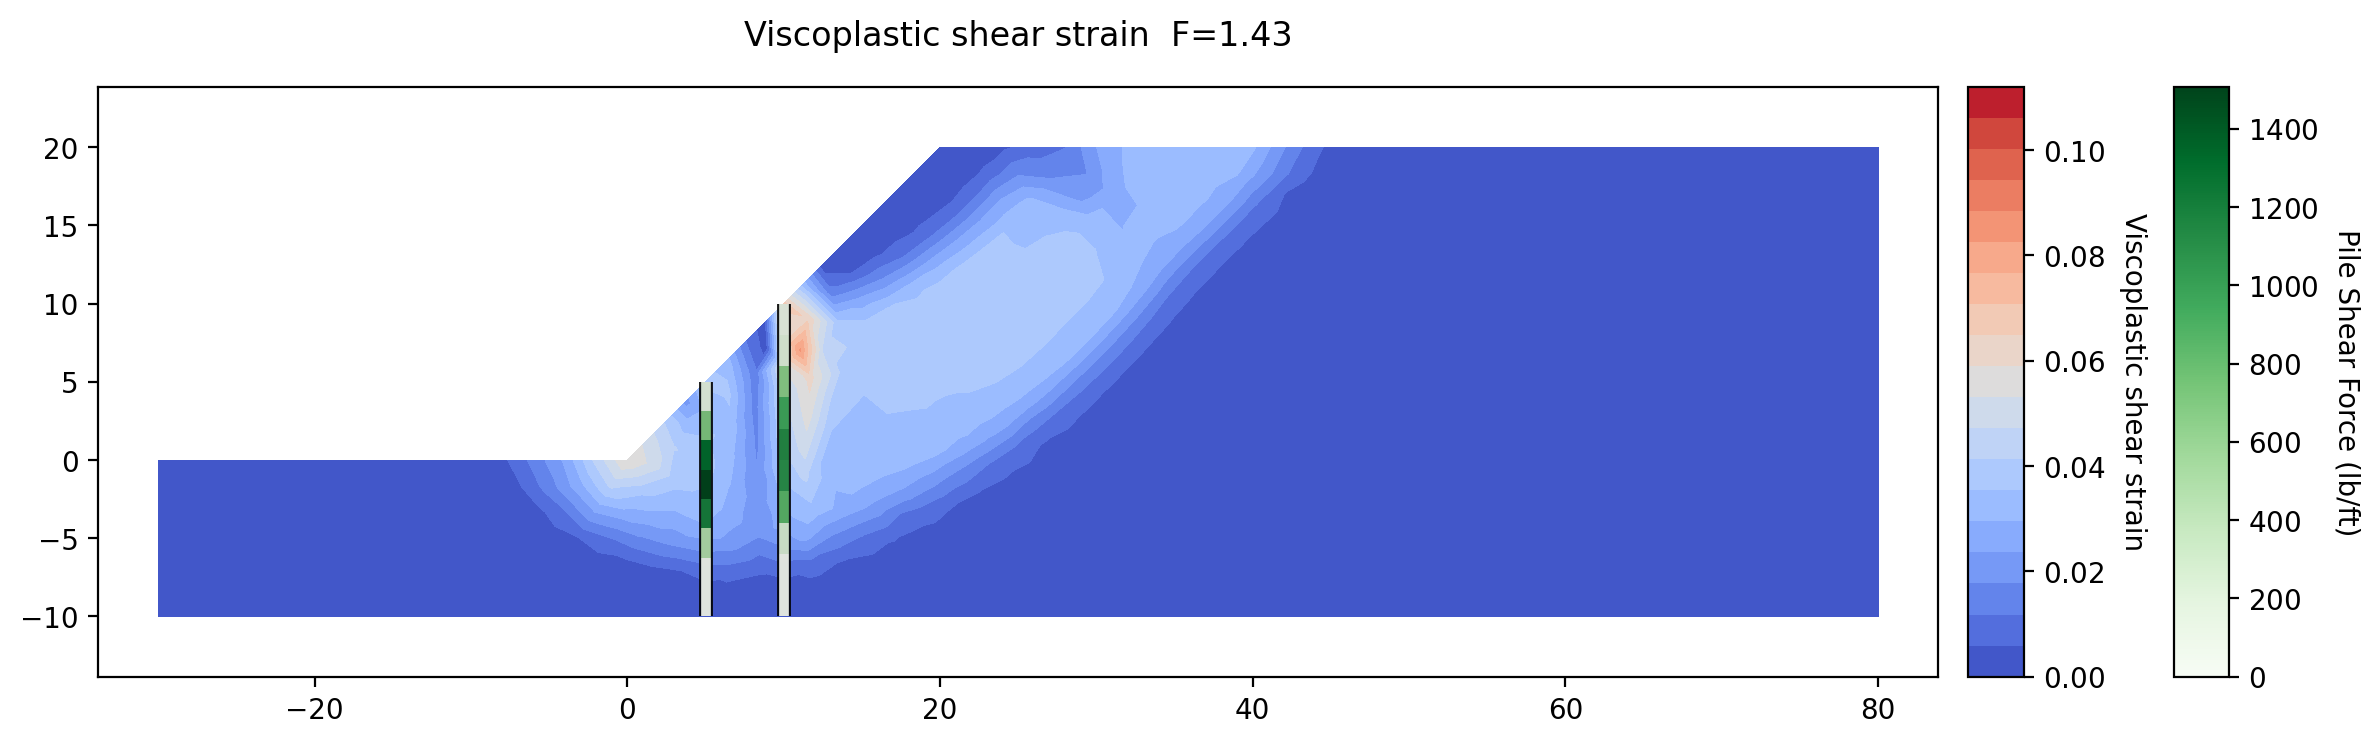
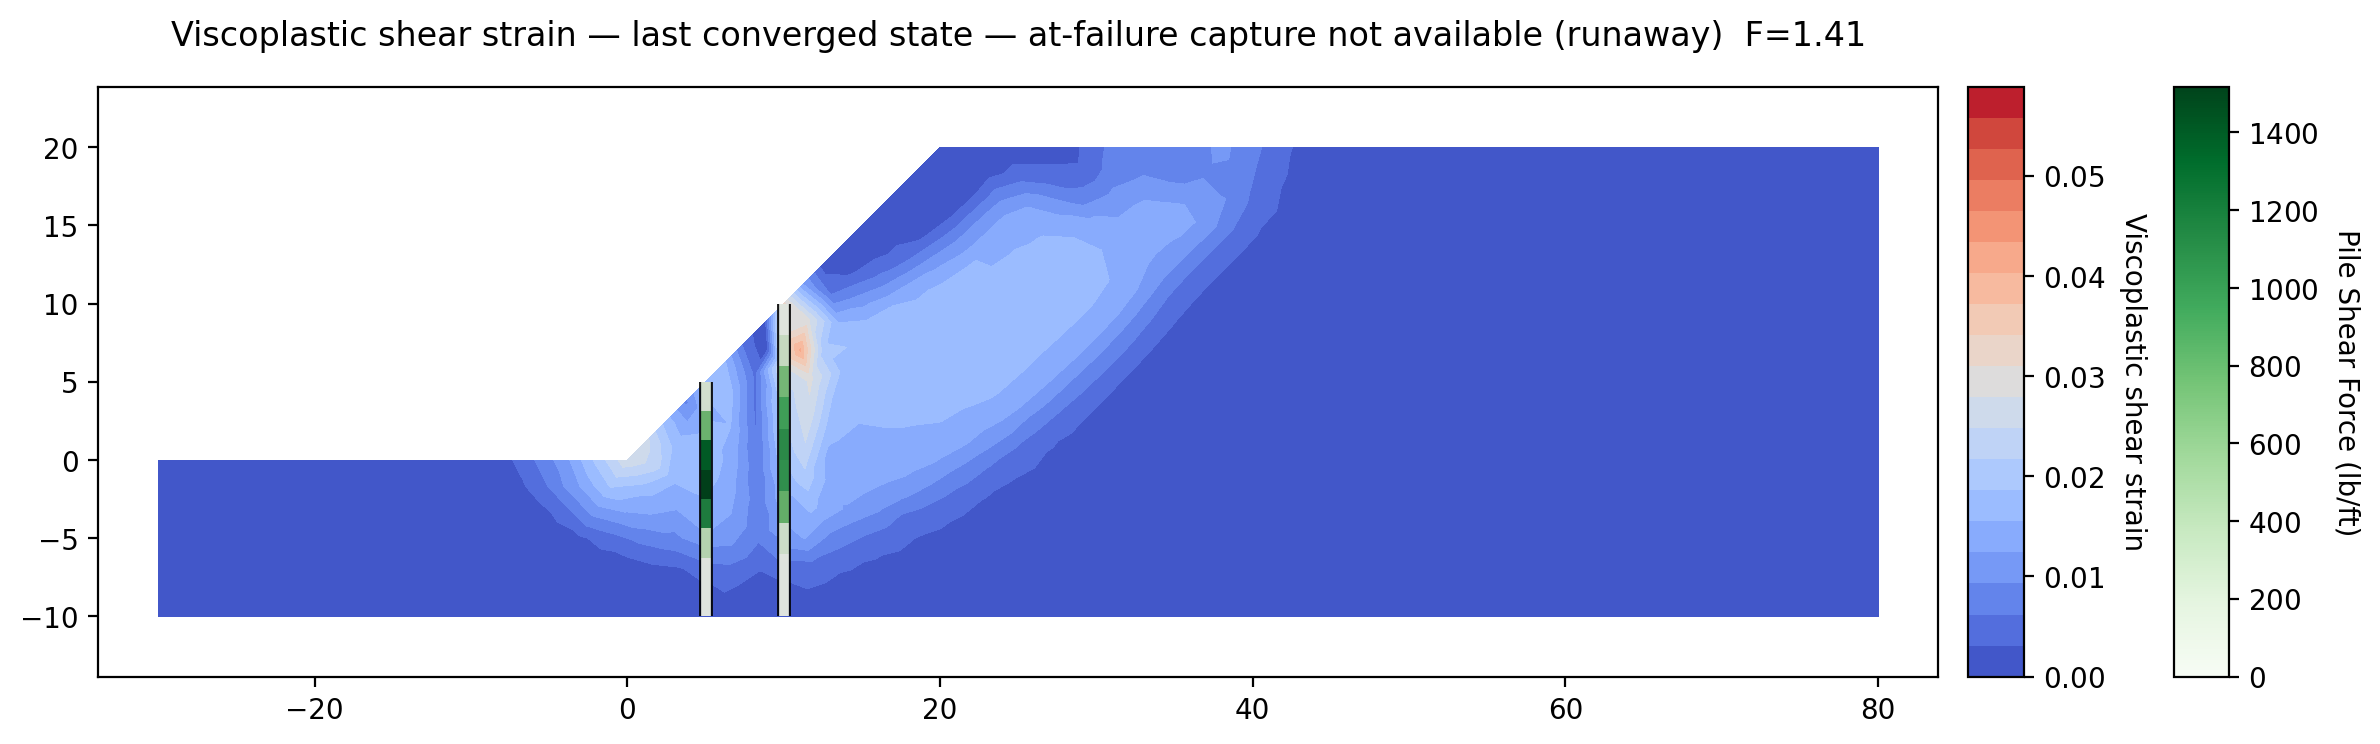
tutorial(fem03): the tip-fixed rows have no state at failure, and the page says so
Holding both ends of both rows takes the answer to 1.410 from 1.363, and past
that answer the rows do not settle into a mechanism -- they keep moving, so the
engine refuses the at-failure capture (5ad7748d) and every panel draws the last
converged state under a title that names it. The section is rewritten around
that: no at-failure number is quoted for this configuration, the mechanism
figure and the upper row's 1D Details are the converged state, and the soil
reaction paragraph reads its Ito & Matsui percentage off the pinned run's panel,
which has one, rather than off this one, which does not.

  tips fixed              1.434 -> 1.410, holding both toes worth 0.047
  spacing, tips fixed     1.559/1.434/1.238 -> 1.543/1.410/1.238
  spacing, tips pinned    the S = 12 point 1.348 -> 1.324
  upper row, tip fixed    head 0.19 ft, Mmax 10,000 lb.ft/ft at 18 ft,
                          Vmax 1,062 lb/ft at 9 ft, all at the converged state
  upper row, tip pinned   peak moment 44% of Mcap, soil reaction 42% of the
                          Ito & Matsui limit

The bare, pile-row, spacing and wall groups were all run again on the fixed
engine and every published number is unchanged, so the three moved tags stand:
--benchmark FEM-3 passes 1.137, 1.363 and 1.723.

Producer: _fem03_report labels the second reading "last converged state
(at-failure capture not available)" and prints the reason when solve_ssrm sets
[…]

diff --git a/tools/make_tutorial_figures.py b/tools/make_tutorial_figures.py
@@ -4547,20 +4547,20 @@ FEM02_TOLERANCE = 0.01
 #: 12,000, which is also ``solve_ssrm``'s default budget.  On this model the
 #: number no longer decides the answer: a trial that spends its budget while still
 #: making progress is extended rather than failed, so both runs return the same
-#: factors of safety (1.5586 elastic-perfectly-plastic, 1.5117 peak-residual) from
+#: factors of safety (1.5664 elastic-perfectly-plastic, 1.5352 peak-residual) from
 #: a 3,000 budget and from 12,000, with the same brackets and the same converged
 #: field.  What the budget still decides is how far the captured failure state has
 #: developed, which is why the producers ask for the larger one.
 FEM02_MAX_ITERATIONS = 12000
 #: The line the bar-force profiles are drawn for: the most heavily loaded of the
-#: six in both runs (peak 800 lb/ft elastic-perfectly-plastic, 798 lb/ft
+#: six in both runs (peak 800 lb/ft elastic-perfectly-plastic, 762.8 lb/ft
 #: peak-residual, both at the last converged trial).
 FEM02_PROFILE_LINE = 5
 #: The residual capacities the sweep asks for, highest first.  ``None`` is the
 #: blank cell — no post-peak drop at all.  The sweep runs down to zero because
 #: that is where the answer moves: Tres = Tmax is the same run as a blank cell,
-#: 600 and 400 give one lower factor of safety, and only Tres = 0 — the bar
-#: tearing and carrying nothing — gives a third.
+#: 600 and 400 each give a lower factor of safety of their own (1.5352 and
+#: 1.5195), and Tres = 0 — the bar tearing and carrying nothing — gives another.
 FEM02_TRES_SWEEP = (None, 800.0, 600.0, 400.0, 0.0)
 
 
@@ -4574,8 +4574,9 @@ def _fem02_mesh(model):
     inert: the shell is a 1.19 ft facing band, thinner than one element at the
     target size, so the refinement drives the local size there to 0.33 ft and the
     mesh from 2,101 elements to 5,096.  That mesh is a different model's worth of
-    answer (peak-residual 1.4414 against 1.5117, elastic-perfectly-plastic 1.5117
-    against 1.5586), so the page has to tell the reader which box to clear, and
+    answer (peak-residual 1.4570 against 1.5352, elastic-perfectly-plastic 1.5195
+    against 1.5664; 1.4414 is what a 1 ft element size gives), so the page has to
+    tell the reader which box to clear, and
     this producer draws the mesh the page's own numbers come from.
     """
     from xslope.mesh import (build_mesh_from_polygons,
@@ -5177,10 +5178,19 @@ def _fem03_report(label, model, mesh, fem_data, result, solution, seconds,
     if not (beam and row):
         return
     fail = solution.get("failure_solution") or solution
+    # A run whose at-failure capture ran away publishes no failure state: the
+    # field standing in its place is the last converged one, and the line has to
+    # say which state it is rather than label a converged field "at failure".
     print("      converged  %s"
           % _fem03_beam(solution, spacing, row["M_cap"], row["V_cap"]))
-    print("      at failure %s"
-          % _fem03_beam(fail, spacing, row["M_cap"], row["V_cap"]))
+    if result.get("capture_failed"):
+        print("      last converged state (at-failure capture not available) %s"
+              % _fem03_beam(fail, spacing, row["M_cap"], row["V_cap"]))
+        print("         no capture: %s"
+              % (result.get("capture_failed_reason") or "runaway"))
+    else:
+        print("      at failure %s"
+              % _fem03_beam(fail, spacing, row["M_cap"], row["V_cap"]))
     print("      mechanism  %s" % _fem03_mechanism(fem_data, solution))
 
 

diff --git a/docs/tutorials/fem03_piles.md b/docs/tutorials/fem03_piles.md
@@ -118,9 +118,8 @@ file declares **Quadratic triangles (tri6)** with **Auto-size from geometry** of
 at `2`, and the mesh comes out at **3,154 nodes and 1,509 triangles** with no
 beam elements. Then **Run → Run FEM…** — the file declares the bracket too, so
 **F min (SSRM)** and **F max (SSRM)** open on `1.00` and `2.00` — and **Run**.
-This is one of the slower runs on the page — noticeably longer than the piled
-runs that follow — because a slope closer to failing takes more iterations at
-each trial to decide.
+It takes longer than the piled runs that follow, because a slope closer to
+failing takes more iterations at each trial to decide.
 **FS = 1.137**, from [1.1328, 1.1406].
 
 ![The strength-reduction mechanism at failure on the bare slope](images/fem03_fem_shear_bare.png){width=1000}
@@ -362,39 +361,47 @@ bracket again.
 **FS = 1.410**, from [1.4063, 1.4141]. Holding both toes is worth 0.047 here,
 and what keeps it from being worth more is the shafts' own capacity: with the
 toes held both rows reach the full 60,000 lb·ft, and six of the 18 beam
-elements stand at their moment capacity, none at their shear capacity. And the
-failure the run finds is a different one:
+elements stand at their moment capacity, none at their shear capacity.
 
-![The mechanism with both pile tips fixed: a weak strain field spread through the slope, with its one concentration just downslope of the upper row's head](images/fem03_fem_shear_piles_fixed.png){width=1000}
+This run reports no state at failure, and the results panels say so. With both
+ends of both rows held, the first trial that cannot reach equilibrium does not
+settle into a mechanism: it keeps moving, to displacements no slope of this size
+could develop. The engine will not draw a field like that, so every panel below
+carries the **last converged state** instead and names it in its title.
 
-The deep band that ran up from the flat ground beyond the toe is gone. What is
-left is a much weaker field spread through the body of the slope, with its one
-concentration just downslope of the upper row's head, where the strain reaches
-0.13 against the pinned-tip run's 0.80. The collapse the run captured is barely
-developed: the rows hold their ground and the soil shears past the upper one
-instead of carrying it along.
+![The pile rows with both tips fixed, at the last converged state: a weak strain field through the body of the slope, with its one concentration just downslope of the upper row's head](images/fem03_fem_shear_piles_fixed.png){width=1000}
+
+At the factor of safety the run reports, the slope has barely moved. The deep
+band that ran from the flat ground beyond the toe down to the pile tips is not
+there. The strain reaches 0.07 at its highest, just downslope of the upper row's
+head, and the rest of the slope is well below that. The rows hold their ground,
+and what shearing there is happens in the soil above the upper row rather than
+in soil carrying the rows along with it.
 
 Open **Results → 1D Details** on the upper row again:
 
-![The upper row's 1D Details at failure with the tip fixed: bending against the restraint, the moment at capacity from 16 ft down to the toe](images/fem03_piles_profile_fixed.png){width=1000}
+![The upper row's 1D Details with the tip fixed, at the last converged state: bending against the restraint, the moment at capacity from 14 ft down to the toe](images/fem03_piles_profile_fixed.png){width=1000}
 
-Every panel has changed. The head moves 0.40 ft instead of feet, and the
-displacement curves — the shaft is bending now, not rotating. The moment is zero
-at the head, which is still free, and it reaches the 10,000 lb·ft per foot that
-is M<sub>cap</sub> ÷ S at 16 ft below the head and holds it from there to the
-toe: those sections have hinged, and they turn without carrying any more
-moment. The largest shear is 1,124 lb/ft at 9 ft below the head, against the
-pinned run's 1,481 lb/ft at the toe, and of the opposite sign: the shaft is
-being bent against its toe rather than swung about it. The soil reaction panel
-reports the lateral pressure the soil is putting on the shaft against the Ito &
-Matsui limit — the largest pressure the theory says soil can exert on a pile in
-a row before it squeezes between the piles — and here the peak is 38% of that
-limit, where the pinned run reached 78%. In plane strain there is no gap for
-soil to squeeze through, so nothing in the model would hold that pressure under
-the limit; the panel reports the ratio so that a row smeared into a wall can be
-checked against the theory that does describe the gap. Held at its toe, the
-shaft develops the full moment capacity the limit equilibrium method assumed all
-along.
+Every panel has changed. The head moves 0.19 ft, and the displacement profile is
+curved rather than straight — the shaft is bending now, not rotating about a
+pin. The moment is zero at the head, which is
+still free, reaches the 10,000 lb·ft per foot that is M<sub>cap</sub> ÷ S about
+14 ft below the head, and holds it to the toe: those sections have hinged, and
+they turn without carrying any more moment. The largest shear is 1,062 lb/ft at
+9 ft below the head, and of the opposite sign to the pinned run's: the shaft is
+being bent against its toe rather than swung about it.
+
+The soil reaction panel reports the lateral pressure the soil is putting on the
+shaft against the Ito & Matsui limit — the largest pressure the theory says soil
+can exert on a pile in a row before it squeezes between the piles. The pinned
+run's panel above puts the peak at 42% of that limit; this one quotes no
+percentage, because there is no state at failure here to read one from. In plane
+strain there is no gap for soil to squeeze through, so nothing in the model would
+hold that pressure under the limit; the panel reports the ratio so that a row
+smeared into a wall can be checked against the theory that does describe the gap.
+
+Held at its toe, the shaft develops the full moment capacity the limit
+equilibrium method assumed all along.
 
 Set `Tip` back to `pinned` on both rows before the next section.
 
@@ -667,8 +674,7 @@ with the soil reaction's second sign change near the toe and its rise to about
 1,600 lb/ft per ft against the toe resolved. Refine the 1D size when the profile
 shapes are the deliverable — a section check down the member, a soil reaction
 distribution — and read the factor of safety off the refined run too: on this
-wall it moved by 0.047, and it was the beam's own discretization that moved it,
-not the finer soil that came with it.
+wall refining the beam moved it by 0.047.
 
 ---
 
